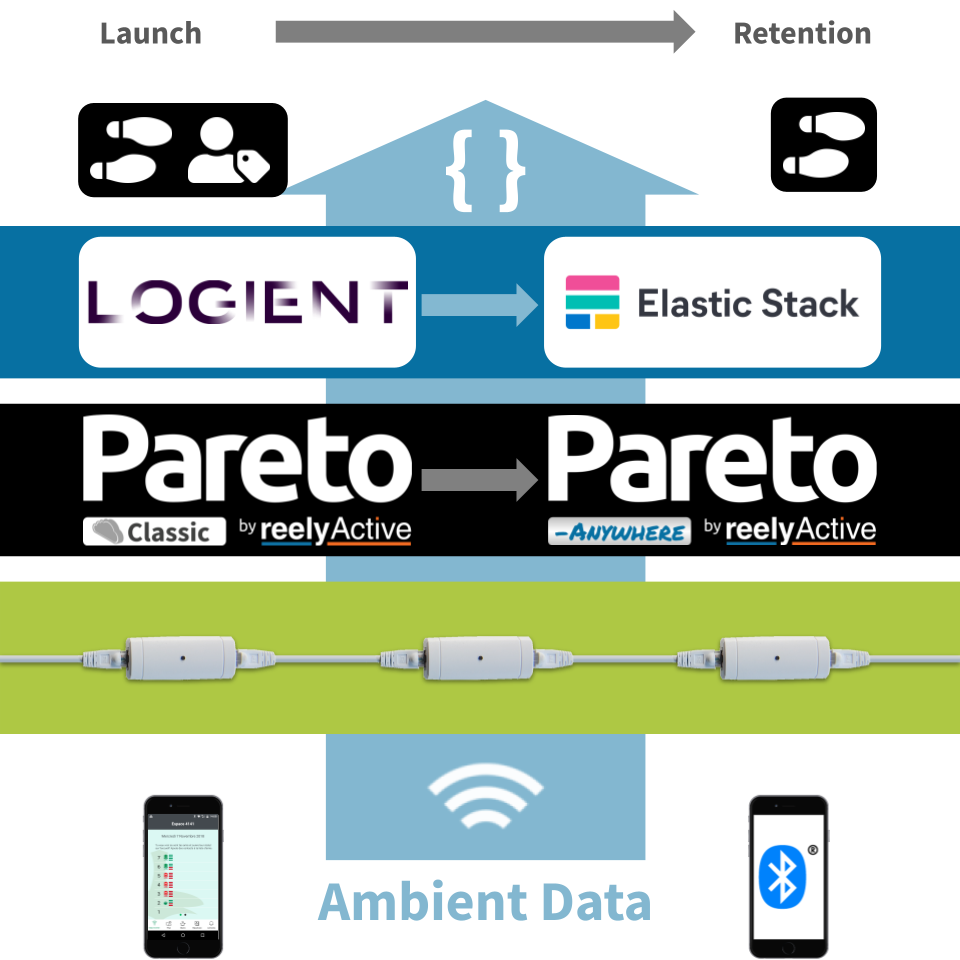
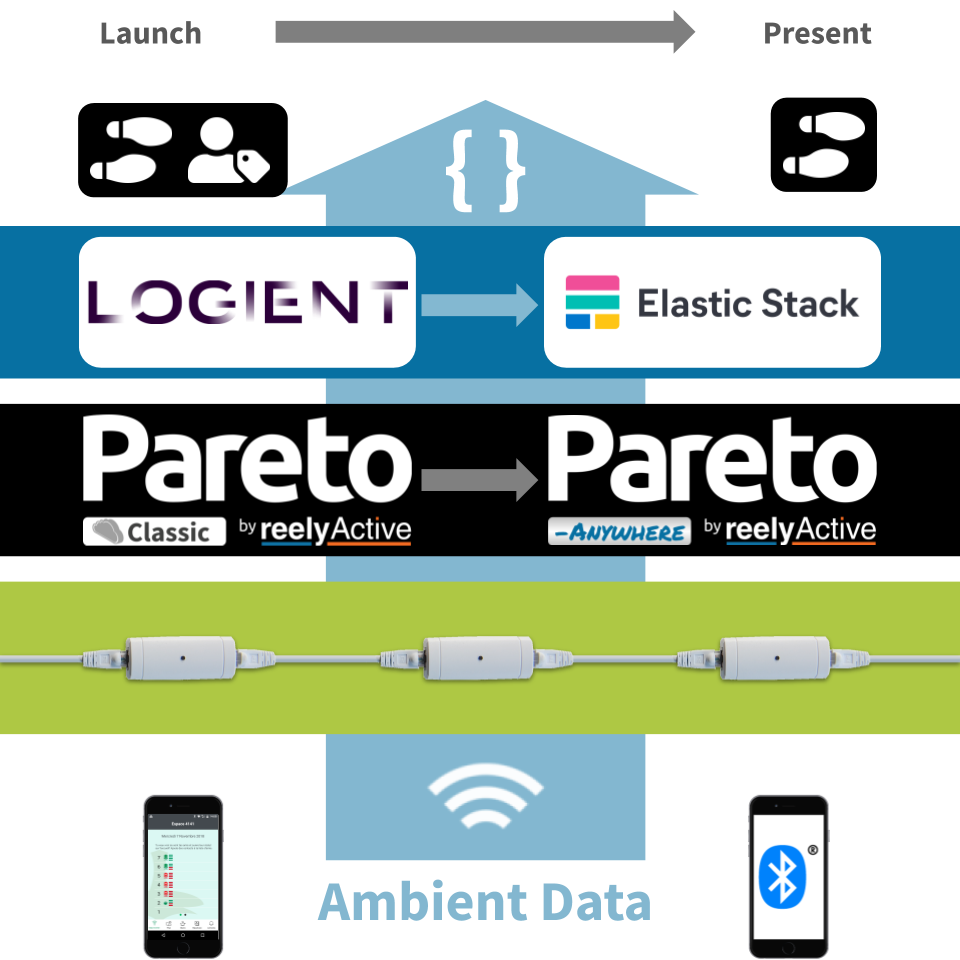
Updated wording, added footer

Changed region(s): [[0.75, 0.0, 0.9062, 0.0625]]

diff --git a/case-studies/desjardins-dtm/index.html b/case-studies/desjardins-dtm/index.html
@@ -418,7 +418,7 @@
                    class="img-fluid mb-3" alt="Desjardins DTM Technology Stack">
             </div>
             <div class="col-lg-6">
-              <h2> Current Solution </h2>
+              <h2> Present Solution </h2>
               <table class="table table-borderless align-middle">
                 <tbody>
                   <tr>
@@ -449,7 +449,7 @@
               </table>
             </div>
           </div>
-          <div class="card text-white bg-primary my-5">
+          <div class="card text-white bg-primary mt-5">
             <div class="card-body">
               <figure class="card-text text-center">
                 <blockquote class="blockquote">
@@ -461,6 +461,17 @@
               </figure>
             </div>
           </div>
+          <ul class="list-inline text-center text-muted my-5">
+            <li class="list-inline-item"> Desjardins DTM </li>
+            <li class="list-inline-item">
+              <i class="fas fa-map-marked-alt"></i>
+              Montr&eacute;al, Canada
+            </li>
+            <li class="list-inline-item">
+              <i class="fas fa-clock"></i>
+              Launched 2018
+            </li>
+          </ul>
         </div>
       </div>
     </div>
